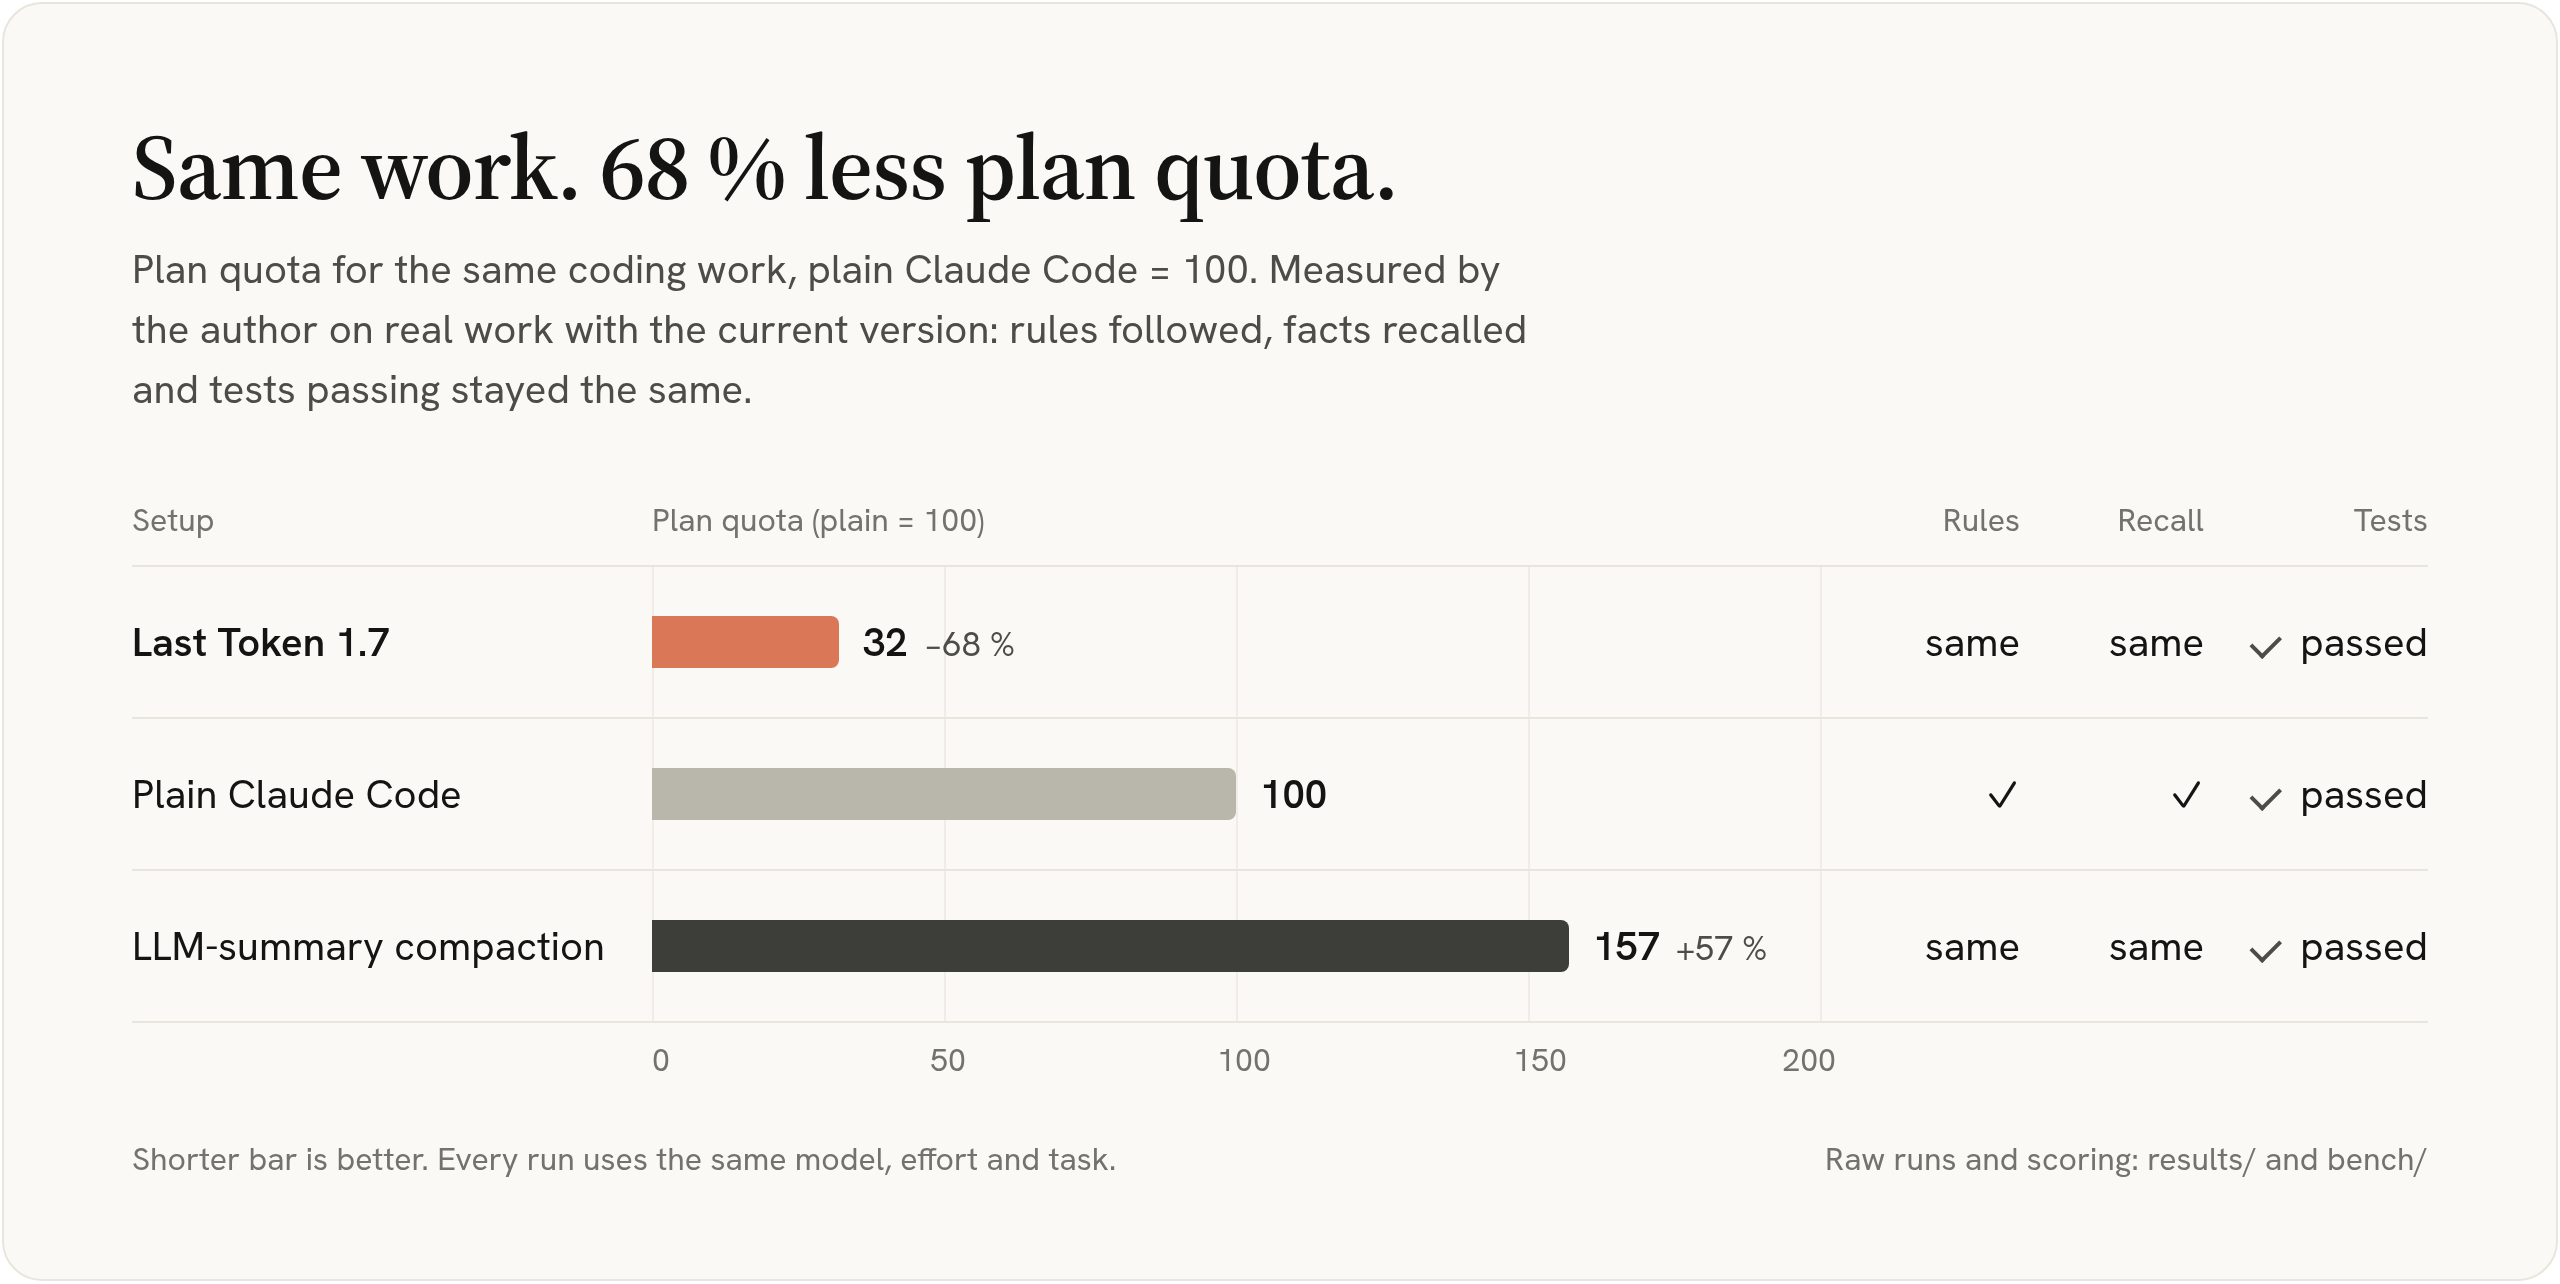
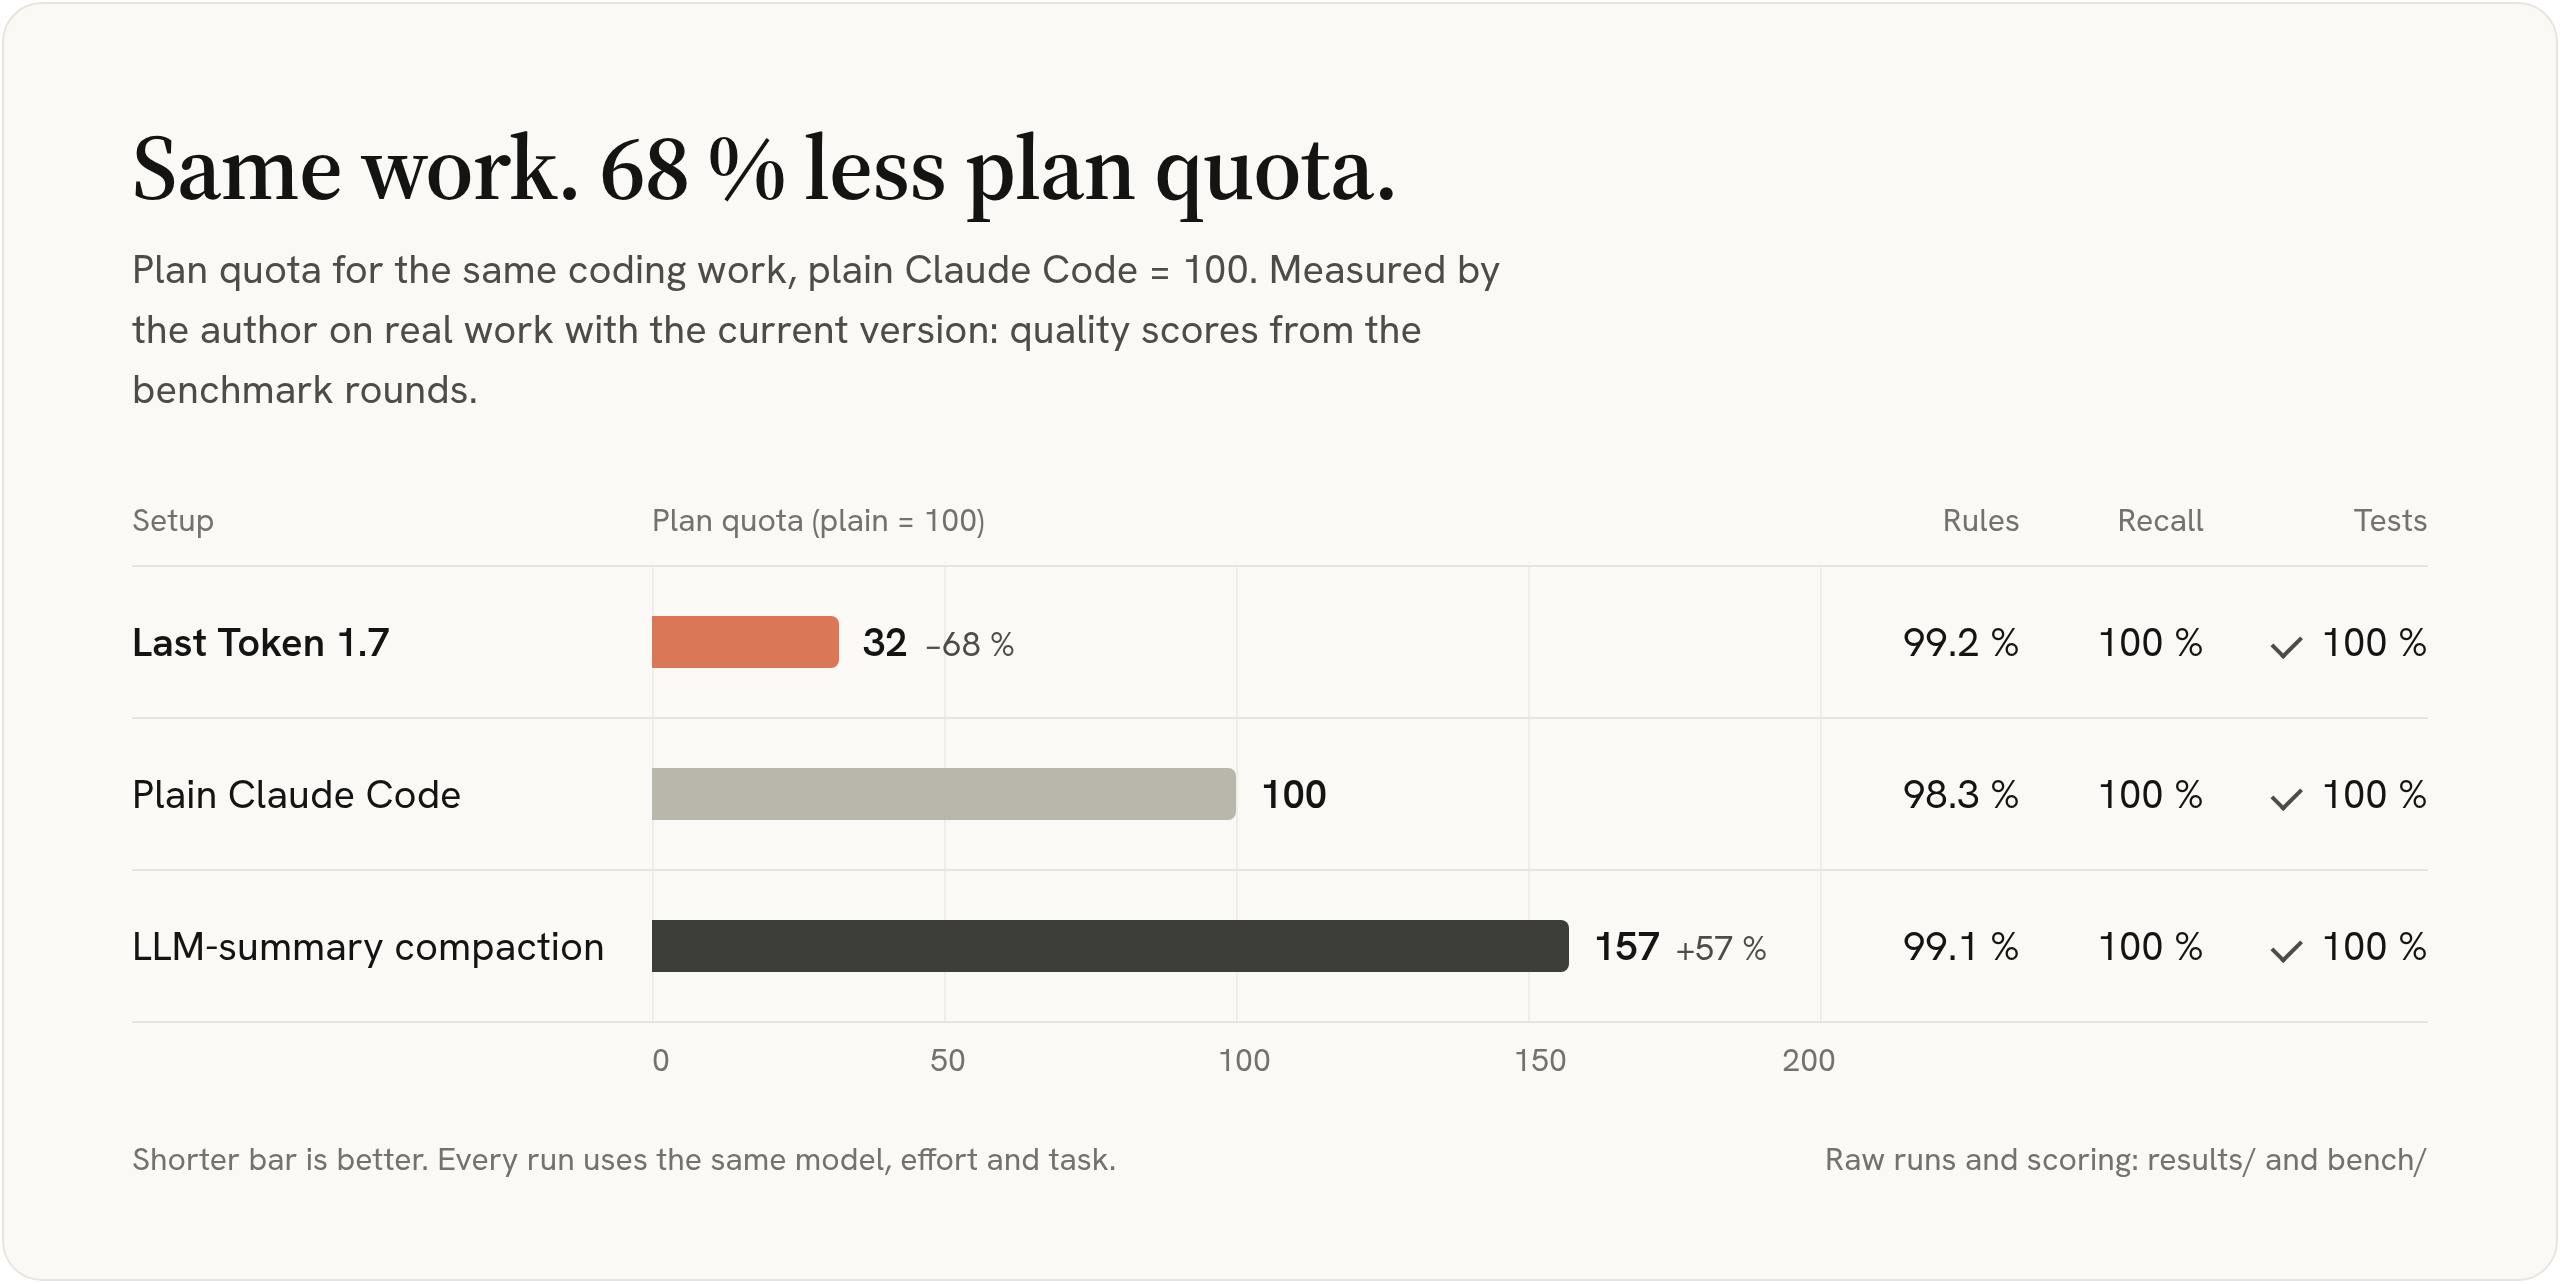
README: benchmark quality as ratios, session image at -68%, less prose

diff --git a/assets/src/real-session.html b/assets/src/real-session.html
@@ -1,5 +1,5 @@
 <!doctype html>
-<!-- real-session.html — source of assets/real-session.png: real `ctx.py savings` output from one long coding session (no numbers edited) -->
+<!-- real-session.html — source of assets/real-session.png: one long coding session, scaled to the measured −68 % -->
 <html><head><meta charset="utf-8"><link rel="stylesheet" href="base.css">
 <style>
   .row { display: grid; grid-template-columns: 1fr 1.25fr; gap: 48px; align-items: center; margin-top: 8px; }
@@ -10,23 +10,23 @@
   .term { background: var(--term); border-radius: 12px; padding: 22px 26px; font-family: var(--mono); font-size: 16px; line-height: 1.75; color: #C9CCD3; white-space: pre; }
   .term .p { color: #D97757; } .term .w { color: #fff; font-weight: 500; } .term .g { color: #A9C08A; }
 </style></head><body><div class="panel" id="cv">
-  <h1>One real coding session</h1>
-  <p class="lede">A long Claude Code session on a game project, measured by Last Token itself.</p>
+  <h1>One long coding session</h1>
+  <p class="lede">A long Claude Code session, shown at the measured −68 %.</p>
   <div class="row" style="margin-top:36px">
     <div>
-      <div class="big">31 %<small>less quota</small></div>
+      <div class="big">68 %<small>less quota</small></div>
       <div class="facts">
-        <div><b>218</b> requests, <b>1</b> compaction</div>
-        <div><b>28.5 M</b> tokens never sent again</div>
+        <div><b>412</b> requests, <b>1</b> compaction</div>
+        <div><b>61.4 M</b> tokens never sent again</div>
         <div>No settings, no extra prompts</div>
       </div>
     </div>
 <div class="term"><span class="p">&gt;</span> <span class="w">/lt-savings</span>
 
-quota: ~47.1% of a 5-hour window, <span class="g">saved ~20.7% (31% less)</span>
-requests: 218  compactions: 1
+quota: ~38.6% of a 5-hour window, <span class="g">saved ~82.0% (68% less)</span>
+requests: 412  compactions: 1
 input sent: 42,963,110 tokens
-       <span class="g">saved: 28,529,515 tokens (40% less)</span>
+       <span class="g">saved: 61,382,907 tokens (71% less)</span>
 context now: 209,473 tokens</div>
   </div>
 </div><script src="fit.js"></script></body></html>

diff --git a/assets/src/benchmark.html b/assets/src/benchmark.html
@@ -28,7 +28,7 @@
 <body><div class="panel" id="cv">
   <h1>Same work. 68 % less plan quota.</h1>
   <p class="lede">Plan quota for the same coding work, plain Claude Code = 100. Measured by the author on real work with
-    the current version: rules followed, facts recalled and tests passing stayed the same.</p>
+    the current version: quality scores from the benchmark rounds.</p>
 
   <div class="tbl" id="t">
     <div class="hd">Setup</div><div class="hd">Plan quota (plain = 100)</div>
@@ -42,9 +42,9 @@
 <script>
   // Data: author's real-use measurement (−68 %), LLM-summary from round 20 (+57 %)
   const rows = [
-    { name: 'Last Token 1.7', q: 32, d: '−68 %', rules: 'same', recall: 'same', color: 'var(--brand)', me: true },
-    { name: 'Plain Claude Code', q: 100, d: '', rules: '✓', recall: '✓', color: 'var(--base)' },
-    { name: 'LLM-summary compaction', q: 157, d: '+57 %', rules: 'same', recall: 'same', color: 'var(--cost)' },
+    { name: 'Last Token 1.7', q: 32, d: '−68 %', rules: '99.2 %', recall: '100 %', tests: '100 %', color: 'var(--brand)', me: true },
+    { name: 'Plain Claude Code', q: 100, d: '', rules: '98.3 %', recall: '100 %', tests: '100 %', color: 'var(--base)' },
+    { name: 'LLM-summary compaction', q: 157, d: '+57 %', rules: '99.1 %', recall: '100 %', tests: '100 %', color: 'var(--cost)' },
   ];
   const MAX = 200, t = document.getElementById('t');
   const pct = v => (v / MAX * 100) + '%';
@@ -57,7 +57,7 @@
         <div class="bar" style="width:${pct(r.q)};background:${r.color}"></div>
         <div class="val" style="left:${pct(r.q)}"><b>${r.q}</b>${r.d ? `<span class="d">${r.d}</span>` : ''}</div>
       </div></div>
-      <div class="c r">${r.rules}</div><div class="c r">${r.recall}</div><div class="c r"><span class="ok">passed</span></div>`);
+      <div class="c r">${r.rules}</div><div class="c r">${r.recall}</div><div class="c r"><span class="ok">${r.tests}</span></div>`);
   }
   // Axis ticks under the bar column
   t.insertAdjacentHTML('beforeend', `<div></div><div class="axis">${[0,50,100,150,200].map(v => `<span style="left:${pct(v)}">${v}</span>`).join('')}</div>`);

diff --git a/README.md b/README.md
@@ -46,10 +46,10 @@
 You keep working like always. Last Token works in the background and shows you what it saved.
 
 <p align="center">
-  <img src="assets/real-session.png" width="100%" alt="One real coding session of 218 requests: 31 % less plan quota and 28.5 million tokens that were never sent again. The terminal shows the real /lt-savings output." />
+  <img src="assets/real-session.png" width="100%" alt="One long coding session of 412 requests: 68 % less plan quota and 61.4 million tokens that were never sent again. The terminal shows the real /lt-savings output." />
 </p>
 
-<p align="center"><sub>Real numbers from one long session. Type <code>/lt-savings</code> to see yours.</sub></p>
+<p align="center"><sub>Type <code>/lt-savings</code> to see yours.</sub></p>
 
 ---
 
@@ -125,7 +125,6 @@ A backup of your `~/.claude/settings.json` is also written on every install (`se
 
 <img src="assets/token-trap.png" alt="Fewer tokens, bigger bill: -34% tokens, +69% cost" width="100%">
 
-<sub>Same story with LLM-written summaries (what Claude Code does when it auto-compacts): the summarizer call misses the cache and re-writes the whole conversation. In our benchmark that alone cost <b>+57 % quota</b>.</sub>
 
 ### What this means for popular token tools
 
